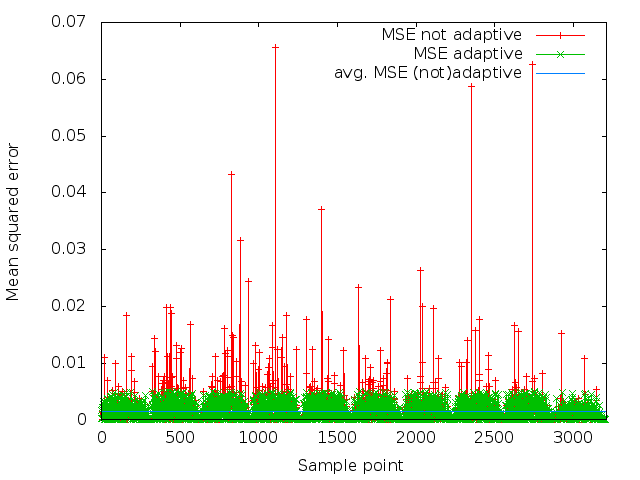
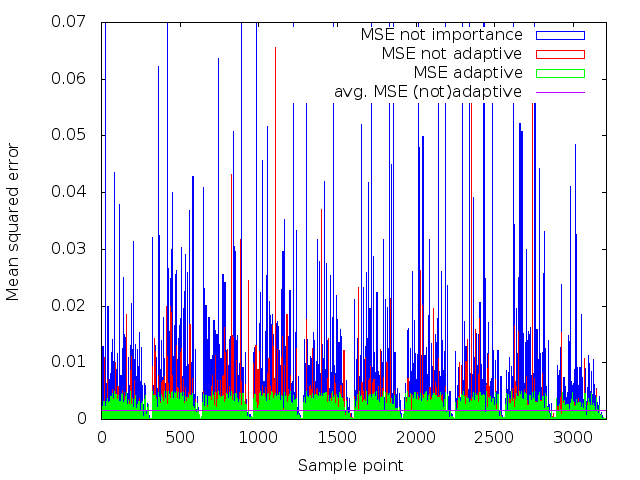
* runtime plot

diff --git a/paper/methods.tex b/paper/methods.tex
@@ -7,7 +7,7 @@ its implementations are listed:
 \begin{description}
 
   \item[Sample points] (multiple GPUs)\\
-    The sample points from \ref{label:meshSampling} are independent from each other
+    The sample points introduced \ref{label:meshSampling} are independent from each other
     and therefore its $\Phi$-ASE can be calculated in parallel. Every $\Phi$-ASE
     calculation runs in his own GPU-Kernel, thus sample points can be partioned 
     to several devices. As a result the speedup for multiple GPUs is almost linear.
@@ -20,14 +20,12 @@ its implementations are listed:
     Furthermore rays with same origin and direction will be grouped
     into warps to utilize the GPU cache in a good way.
 
-
   \item[Wavelengths] (Seperate block dimension)\\
     According to \ref{label:monteCarlo}, the simulation of a polychromatic
     laser can be split into sufficiently small monochromatic simulations which
     are again completely independent from each other.
 
 \end{description}
-
 
 \subsection{Importance sampling}
 Importance sampling is a well known technique in the domain
@@ -45,8 +43,8 @@ sampling has some peaks. Thus importance
 sampling can increase the efficiency of Monte-Carlo-Simulations 
 by reducing variance.
 \begin{figure}[H]
-  \centering
-  \includegraphics[width=8cm]{graphics/importance.png}
+  \centerline
+  {\resizebox{0.45\textwidth}{!}{\includegraphics{graphics/importance.png}}}
   \caption{Comparison: no importance sampling (top), with importance sampling (bottom)}
   \label{graphic:importance}
 \end{figure}
@@ -61,8 +59,8 @@ The adaptive method allows you to remove strong peaks in the result
 of the simulation without sampling all sample points with
 a high number of rays and therefore reduce runtime.
 \begin{figure}[H]
-  \centering
-  \includegraphics[width=8cm]{plot/mse.png}
+  \centerline{
+    \resizebox{0.45\textwidth}{!}{\includegraphics[width=8cm]{plot/mse.png}}}
   \caption{Comparision adaptive, not adaptive}
   \label{plot:adaptive}
 \end{figure}

diff --git a/paper/results.tex b/paper/results.tex
@@ -21,6 +21,12 @@
 
   \item \textbf{Image: Comparison between for\_loops, fixed and adaptive
     numberOfRays for a single wavelength} (use a reasonable MSE)
+    \begin{figure}[H]
+      \centerline{
+        \resizebox{0.45\textwidth}{!}{\includegraphics[width=8cm]{plot/runtime.png}}}
+      \caption{Comparision implementation}
+      \label{plot:runtime}
+    \end{figure}
 
   \item good speedup through parallelization
 
